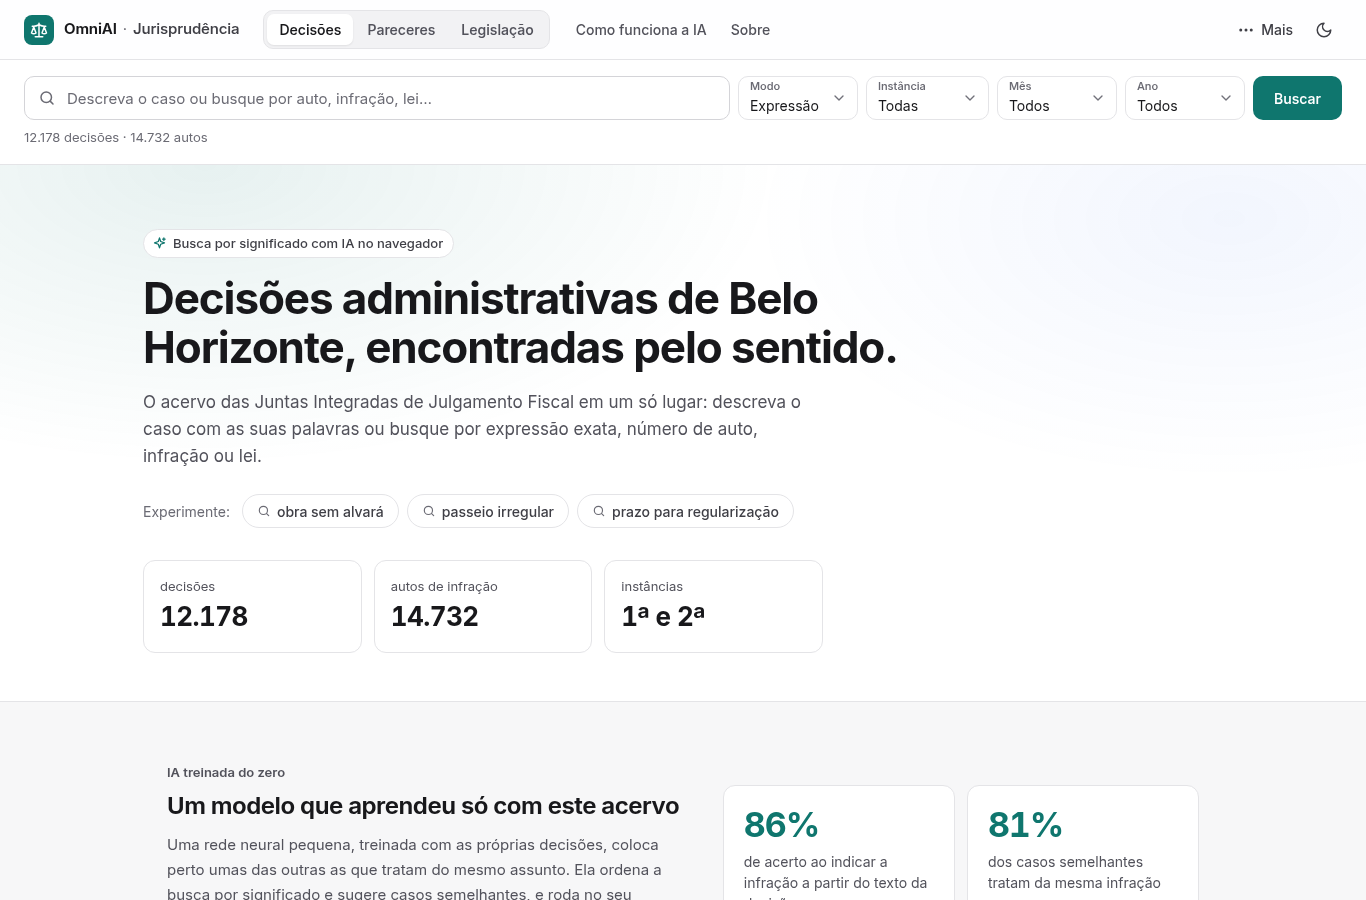
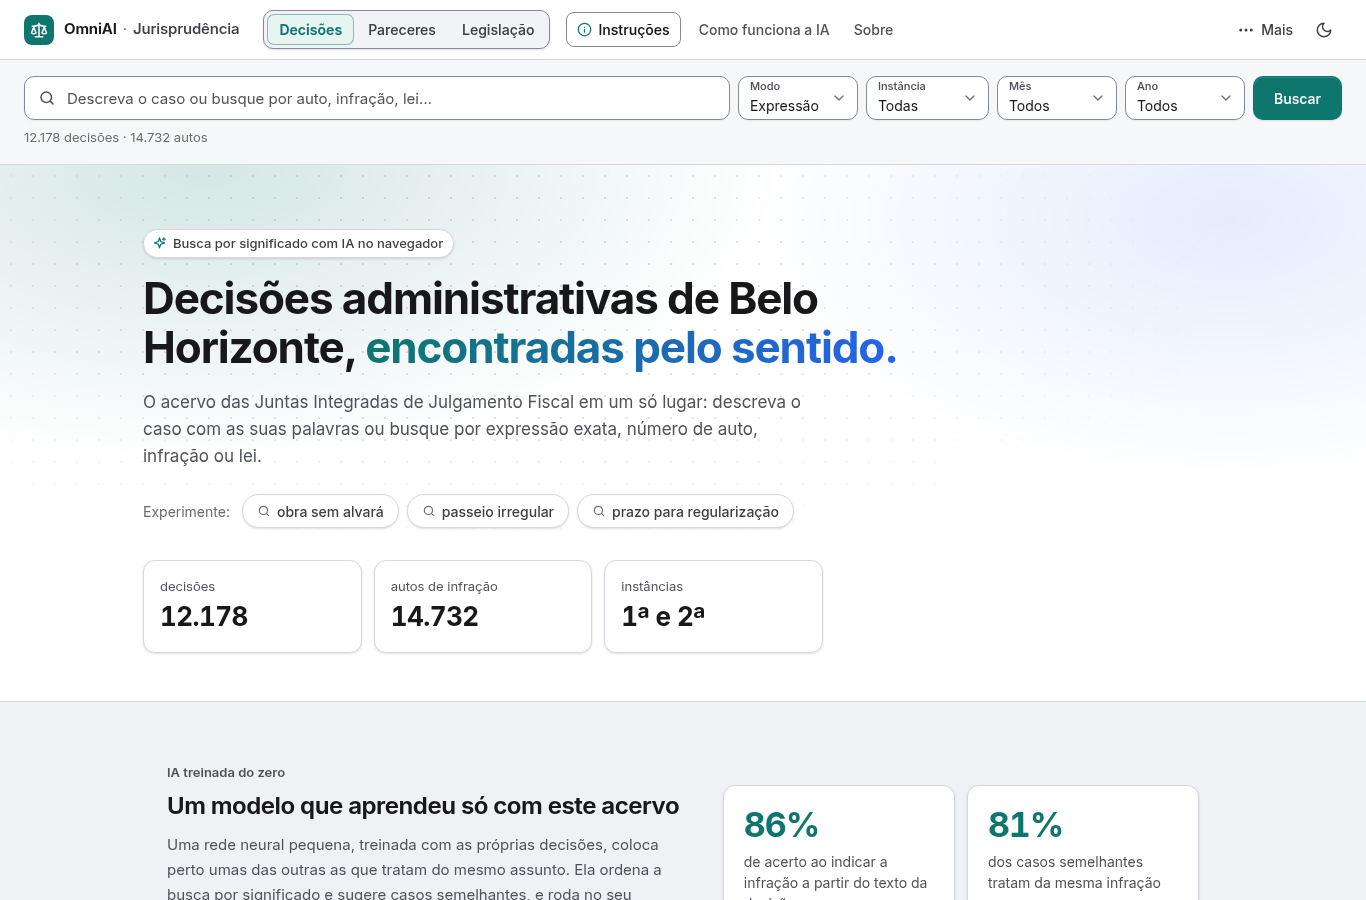
Site: visual com mais contraste e profundidade
O tema ficou sutil demais, principalmente os contornos no tema claro.

- Fundo mais distante dos cartões e bordas mais escuras nos dois temas.
- Cartões, campos, botões e o seletor de modo com sombra leve em repouso
  (e mais forte no hover); no escuro, um brilho de 1 px no topo.
- Abertura da home com gradiente mais forte, grade de pontos discreta e
  o final do título em degradê verde-petróleo → azul.
- Topo sólido, sem transparência.
- O anel de foco do teclado continua acima das sombras.

Lighthouse no modo API segue com 100 em desempenho, acessibilidade e
boas práticas, no celular e no desktop.

Changed region(s): [[0.246, 0.3733, 0.6457, 0.4044], [0.3382, 0.0311, 0.5842, 0.0622], [0.1845, 0.0, 0.3075, 0.0622]]

diff --git a/site_publico/styles.css b/site_publico/styles.css
@@ -26,12 +26,12 @@
 
 :root {
   color-scheme: light;
-  --bg: #f7f7f8;
+  --bg: #f0f1f4;
   --surface: #ffffff;
-  --surface-2: #f2f2f4;
-  --surface-hover: #f4f4f6;
-  --line: #e4e4e7;
-  --line-strong: #d4d4d8;
+  --surface-2: #f2f3f6;
+  --surface-hover: #f6f7f9;
+  --line: #d5d8df;
+  --line-strong: #b9bdc7;
   --ink: #18181b;
   --ink-2: #3f3f46;
   --muted: #52525b;
@@ -41,9 +41,9 @@
   --accent-ink: #ffffff;
   --accent-soft: #e6f4f2;
   --accent-text: #0f766e;
-  --busca-bg: #f3f3f5;
+  --busca-bg: #f6f7f9;
   --field-bg: #ffffff;
-  --field-border: #8f8f99;
+  --field-border: #868a96;
   --field-border-hover: #6b6b74;
   --field-shadow: 0 1px 2px rgba(24, 24, 27, 0.06);
   --mark-bg: #fdf0a6;
@@ -58,9 +58,13 @@
   --info-ink: #1d4ed8;
   --neutral-bg: #f0f0f2;
   --neutral-ink: #52525b;
-  --hero-a: rgba(15, 118, 110, 0.1);
-  --hero-b: rgba(37, 99, 235, 0.06);
-  --shadow-hover: 0 1px 2px rgba(24, 24, 27, 0.04), 0 4px 16px rgba(24, 24, 27, 0.07);
+  --hero-a: rgba(15, 118, 110, 0.18);
+  --hero-b: rgba(37, 99, 235, 0.12);
+  --shadow-card: 0 1px 2px rgba(16, 24, 40, 0.06), 0 1px 3px rgba(16, 24, 40, 0.08);
+  --shadow-hover: 0 2px 4px rgba(16, 24, 40, 0.06), 0 8px 20px rgba(16, 24, 40, 0.1);
+  --hero-dot: rgba(15, 23, 42, 0.13);
+  --titulo-a: #0f766e;
+  --titulo-b: #2563eb;
   --shadow-menu: 0 8px 28px rgba(24, 24, 27, 0.12), 0 1px 3px rgba(24, 24, 27, 0.06);
   --focus: 0 0 0 2px var(--surface), 0 0 0 4px #0f766e;
 
@@ -87,12 +91,12 @@
 @media (prefers-color-scheme: dark) {
   :root:not([data-theme="light"]) {
     color-scheme: dark;
-    --bg: #1c1c21;
-    --surface: #24242a;
-    --surface-2: #2c2c33;
-    --surface-hover: #2f2f36;
-    --line: #393941;
-    --line-strong: #4a4a53;
+    --bg: #1a1a1f;
+    --surface: #26262d;
+    --surface-2: #2e2e36;
+    --surface-hover: #313139;
+    --line: #42424c;
+    --line-strong: #575762;
     --ink: #ededef;
     --ink-2: #d4d4d8;
     --muted: #b0b0b9;
@@ -102,7 +106,7 @@
     --accent-ink: #042f2e;
     --accent-soft: rgba(45, 212, 191, 0.12);
     --accent-text: #5eead4;
-    --busca-bg: #24242a;
+    --busca-bg: #222228;
     --field-bg: #31313a;
     --field-border: #74747f;
     --field-border-hover: #9a9aa5;
@@ -119,9 +123,13 @@
     --info-ink: #93c5fd;
     --neutral-bg: rgba(161, 161, 170, 0.14);
     --neutral-ink: #c4c4cc;
-    --hero-a: rgba(45, 212, 191, 0.1);
-    --hero-b: rgba(99, 102, 241, 0.08);
-    --shadow-hover: 0 1px 2px rgba(0, 0, 0, 0.3), 0 6px 20px rgba(0, 0, 0, 0.35);
+    --hero-a: rgba(45, 212, 191, 0.17);
+    --hero-b: rgba(129, 140, 248, 0.14);
+    --shadow-card: 0 1px 2px rgba(0, 0, 0, 0.35), inset 0 1px 0 rgba(255, 255, 255, 0.04);
+    --shadow-hover: 0 2px 6px rgba(0, 0, 0, 0.4), 0 10px 24px rgba(0, 0, 0, 0.35), inset 0 1px 0 rgba(255, 255, 255, 0.05);
+    --hero-dot: rgba(255, 255, 255, 0.08);
+    --titulo-a: #5eead4;
+    --titulo-b: #a5b4fc;
     --shadow-menu: 0 12px 32px rgba(0, 0, 0, 0.5), 0 1px 3px rgba(0, 0, 0, 0.4);
     --focus: 0 0 0 2px var(--surface), 0 0 0 4px #2dd4bf;
   }
@@ -129,12 +137,12 @@
 
 :root[data-theme="dark"] {
   color-scheme: dark;
-  --bg: #1c1c21;
-  --surface: #24242a;
-  --surface-2: #2c2c33;
-  --surface-hover: #2f2f36;
-  --line: #393941;
-  --line-strong: #4a4a53;
+  --bg: #1a1a1f;
+  --surface: #26262d;
+  --surface-2: #2e2e36;
+  --surface-hover: #313139;
+  --line: #42424c;
+  --line-strong: #575762;
   --ink: #ededef;
   --ink-2: #d4d4d8;
   --muted: #b0b0b9;
@@ -144,7 +152,7 @@
   --accent-ink: #042f2e;
   --accent-soft: rgba(45, 212, 191, 0.12);
   --accent-text: #5eead4;
-  --busca-bg: #24242a;
+  --busca-bg: #222228;
   --field-bg: #31313a;
   --field-border: #74747f;
   --field-border-hover: #9a9aa5;
@@ -161,9 +169,13 @@
   --info-ink: #93c5fd;
   --neutral-bg: rgba(161, 161, 170, 0.14);
   --neutral-ink: #c4c4cc;
-  --hero-a: rgba(45, 212, 191, 0.1);
-  --hero-b: rgba(99, 102, 241, 0.08);
-  --shadow-hover: 0 1px 2px rgba(0, 0, 0, 0.3), 0 6px 20px rgba(0, 0, 0, 0.35);
+  --hero-a: rgba(45, 212, 191, 0.17);
+  --hero-b: rgba(129, 140, 248, 0.14);
+  --shadow-card: 0 1px 2px rgba(0, 0, 0, 0.35), inset 0 1px 0 rgba(255, 255, 255, 0.04);
+  --shadow-hover: 0 2px 6px rgba(0, 0, 0, 0.4), 0 10px 24px rgba(0, 0, 0, 0.35), inset 0 1px 0 rgba(255, 255, 255, 0.05);
+  --hero-dot: rgba(255, 255, 255, 0.08);
+  --titulo-a: #5eead4;
+  --titulo-b: #a5b4fc;
   --shadow-menu: 0 12px 32px rgba(0, 0, 0, 0.5), 0 1px 3px rgba(0, 0, 0, 0.4);
   --focus: 0 0 0 2px var(--surface), 0 0 0 4px #2dd4bf;
 }
@@ -387,8 +399,7 @@ mark {
   height: var(--topbar-h);
   padding: 0 var(--s-6);
   border-bottom: 1px solid var(--line);
-  background: color-mix(in srgb, var(--surface) 88%, transparent);
-  backdrop-filter: saturate(1.4) blur(10px);
+  background: var(--surface);
 }
 
 .brand {
@@ -778,6 +789,7 @@ mark {
 
 .hero {
   position: relative;
+  overflow: hidden;
   padding: var(--s-16) var(--s-6) var(--s-12);
   border-bottom: 1px solid var(--line);
   background:
@@ -786,10 +798,32 @@ mark {
     var(--surface);
 }
 
+/* Grade de pontos discreta, que some nas bordas. */
+.hero::before {
+  content: "";
+  position: absolute;
+  inset: 0;
+  background-image: radial-gradient(var(--hero-dot) 1px, transparent 1px);
+  background-size: 22px 22px;
+  mask-image: radial-gradient(ellipse 75% 70% at 35% 25%, #000 25%, transparent 75%);
+  pointer-events: none;
+}
+
+.hero-inner {
+  position: relative;
+}
+
 .hero-inner,
 .home-secao {
   max-width: 1080px;
   margin: 0 auto;
+}
+
+.titulo-destaque {
+  background: linear-gradient(90deg, var(--titulo-a), var(--titulo-b));
+  -webkit-background-clip: text;
+  background-clip: text;
+  color: transparent;
 }
 
 .eyebrow {
@@ -2406,4 +2440,48 @@ body[data-ia="legislacao"] .text-preview {
     animation-duration: 0.01ms !important;
     transition-duration: 0.01ms !important;
   }
+}
+
+/* ---------- Profundidade: cartões com sombra leve em repouso ---------- */
+
+.result,
+.numero,
+.metrica,
+.recurso,
+.auto-row,
+.meta-grid,
+.similares-lista,
+.preview,
+.topico,
+.video,
+.fluxo-etapa,
+.tecnologia,
+.ia-numero,
+.exemplo,
+.skeleton,
+.eyebrow,
+.btn,
+.modos {
+  box-shadow: var(--shadow-card);
+}
+
+.btn-ghost {
+  box-shadow: none;
+}
+
+.btn-primary,
+.open-button {
+  box-shadow: 0 1px 2px rgba(16, 24, 40, 0.12), inset 0 1px 0 rgba(255, 255, 255, 0.12);
+}
+
+.recurso:hover,
+.metrica:hover,
+.numero:hover {
+  border-color: var(--line-strong);
+  box-shadow: var(--shadow-hover);
+}
+
+/* O anel de foco do teclado vale mais que a sombra dos cartões. */
+:is(.result, .exemplo, .btn, .topico, .similar, .modo, .nav-link):focus-visible {
+  box-shadow: var(--focus);
 }

diff --git a/site_publico/index.html b/site_publico/index.html
@@ -149,7 +149,7 @@
       <section class="hero" aria-labelledby="home-titulo">
         <div class="hero-inner">
           <p class="eyebrow"><svg class="icon" aria-hidden="true"><use href="assets/icones.svg#faisca" /></svg>Busca por significado com IA no navegador</p>
-          <h1 id="home-titulo">Decisões administrativas de Belo Horizonte, encontradas pelo sentido.</h1>
+          <h1 id="home-titulo">Decisões administrativas de Belo Horizonte, <span class="titulo-destaque">encontradas pelo sentido.</span></h1>
           <p class="hero-lead">
             O acervo das Juntas Integradas de Julgamento Fiscal em um só lugar: descreva o caso com as suas palavras
             ou busque por expressão exata, número de auto, infração ou lei.
